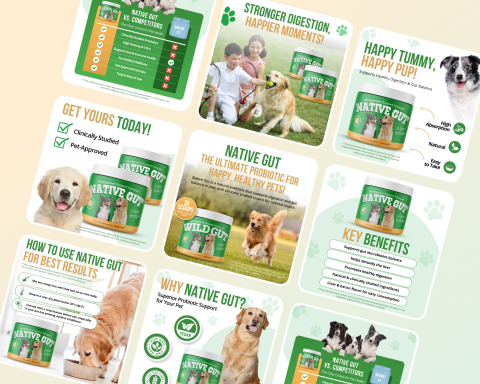
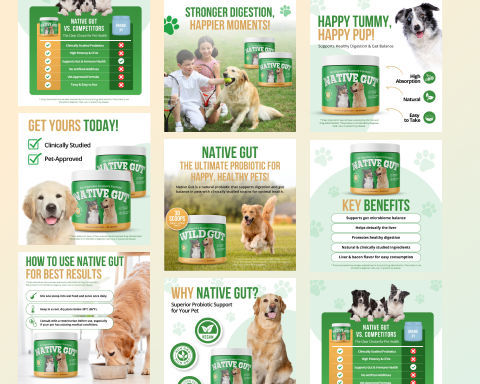
replace images portfolio

diff --git a/src/components/ui/portfolio-section.tsx b/src/components/ui/portfolio-section.tsx
@@ -2,10 +2,10 @@ import { HeroParallax } from "@/components/ui/hero-parallax";
 
 const products = [
   // Row 1 — Website designs
-  { title: "Website Design I",    thumbnail: "/portfolio/website/Frame 26.png" },
-  { title: "Website Design II",   thumbnail: "/portfolio/website/Frame 27.png" },
+  { title: "Website Design I",    thumbnail: "/portfolio/website/Frame 41.jpg" },
+  { title: "Website Design II",   thumbnail: "/portfolio/website/Frame 55.png" },
   { title: "Website Design III",  thumbnail: "/portfolio/website/Frame 28.png" },
-  { title: "Website Design IV",   thumbnail: "/portfolio/website/Frame 29.png" },
+  { title: "Website Design IV",   thumbnail: "/portfolio/website/Frame 57.png" },
   { title: "Website Design V",    thumbnail: "/portfolio/website/Frame 30.png" },
 
   // Row 2 — More website + listing images
@@ -14,13 +14,19 @@ const products = [
   { title: "Amazon Listing II",   thumbnail: "/portfolio/listing-images/Frame 38.png" },
   { title: "Amazon Listing III",  thumbnail: "/portfolio/listing-images/Frame 39.png" },
   { title: "Amazon Listing IV",   thumbnail: "/portfolio/listing-images/Frame 40.png" },
+  // Row 4 — Carousel + Flyers
+  { title: "Flyers II",   thumbnail: "/portfolio/flyers/Frame 63.png" },
+  { title: "Carousel I",  thumbnail: "/portfolio/carousel/Frame 60.png" },
+  { title: "Carousel II", thumbnail: "/portfolio/carousel/Frame 61.png" },
+  { title: "Flyers I",thumbnail: "/portfolio/flyers/Frame 62.png" },
+  { title: "Thumbnail Design III",  thumbnail: "/portfolio/thumbnails/Frame 54.png" },
 
   // Row 3 — More listing images
   { title: "Amazon Listing V",    thumbnail: "/portfolio/listing-images/Frame 41.png" },
   { title: "Amazon Listing VI",   thumbnail: "/portfolio/listing-images/Frame 42.png" },
   { title: "Amazon Listing VII",  thumbnail: "/portfolio/listing-images/Frame 43.png" },
   { title: "Amazon Listing VIII", thumbnail: "/portfolio/listing-images/Frame 44.png" },
-  { title: "Amazon Listing IX",   thumbnail: "/portfolio/listing-images/Frame 45.png" },
+  { title: "Amazon Listing IX",   thumbnail: "/portfolio/listing-images/Frame 58.png" },
 
   // Row 4 — Packaging + thumbnails
   { title: "Product Packaging I",  thumbnail: "/portfolio/product-packaging/Frame 46.png" },
